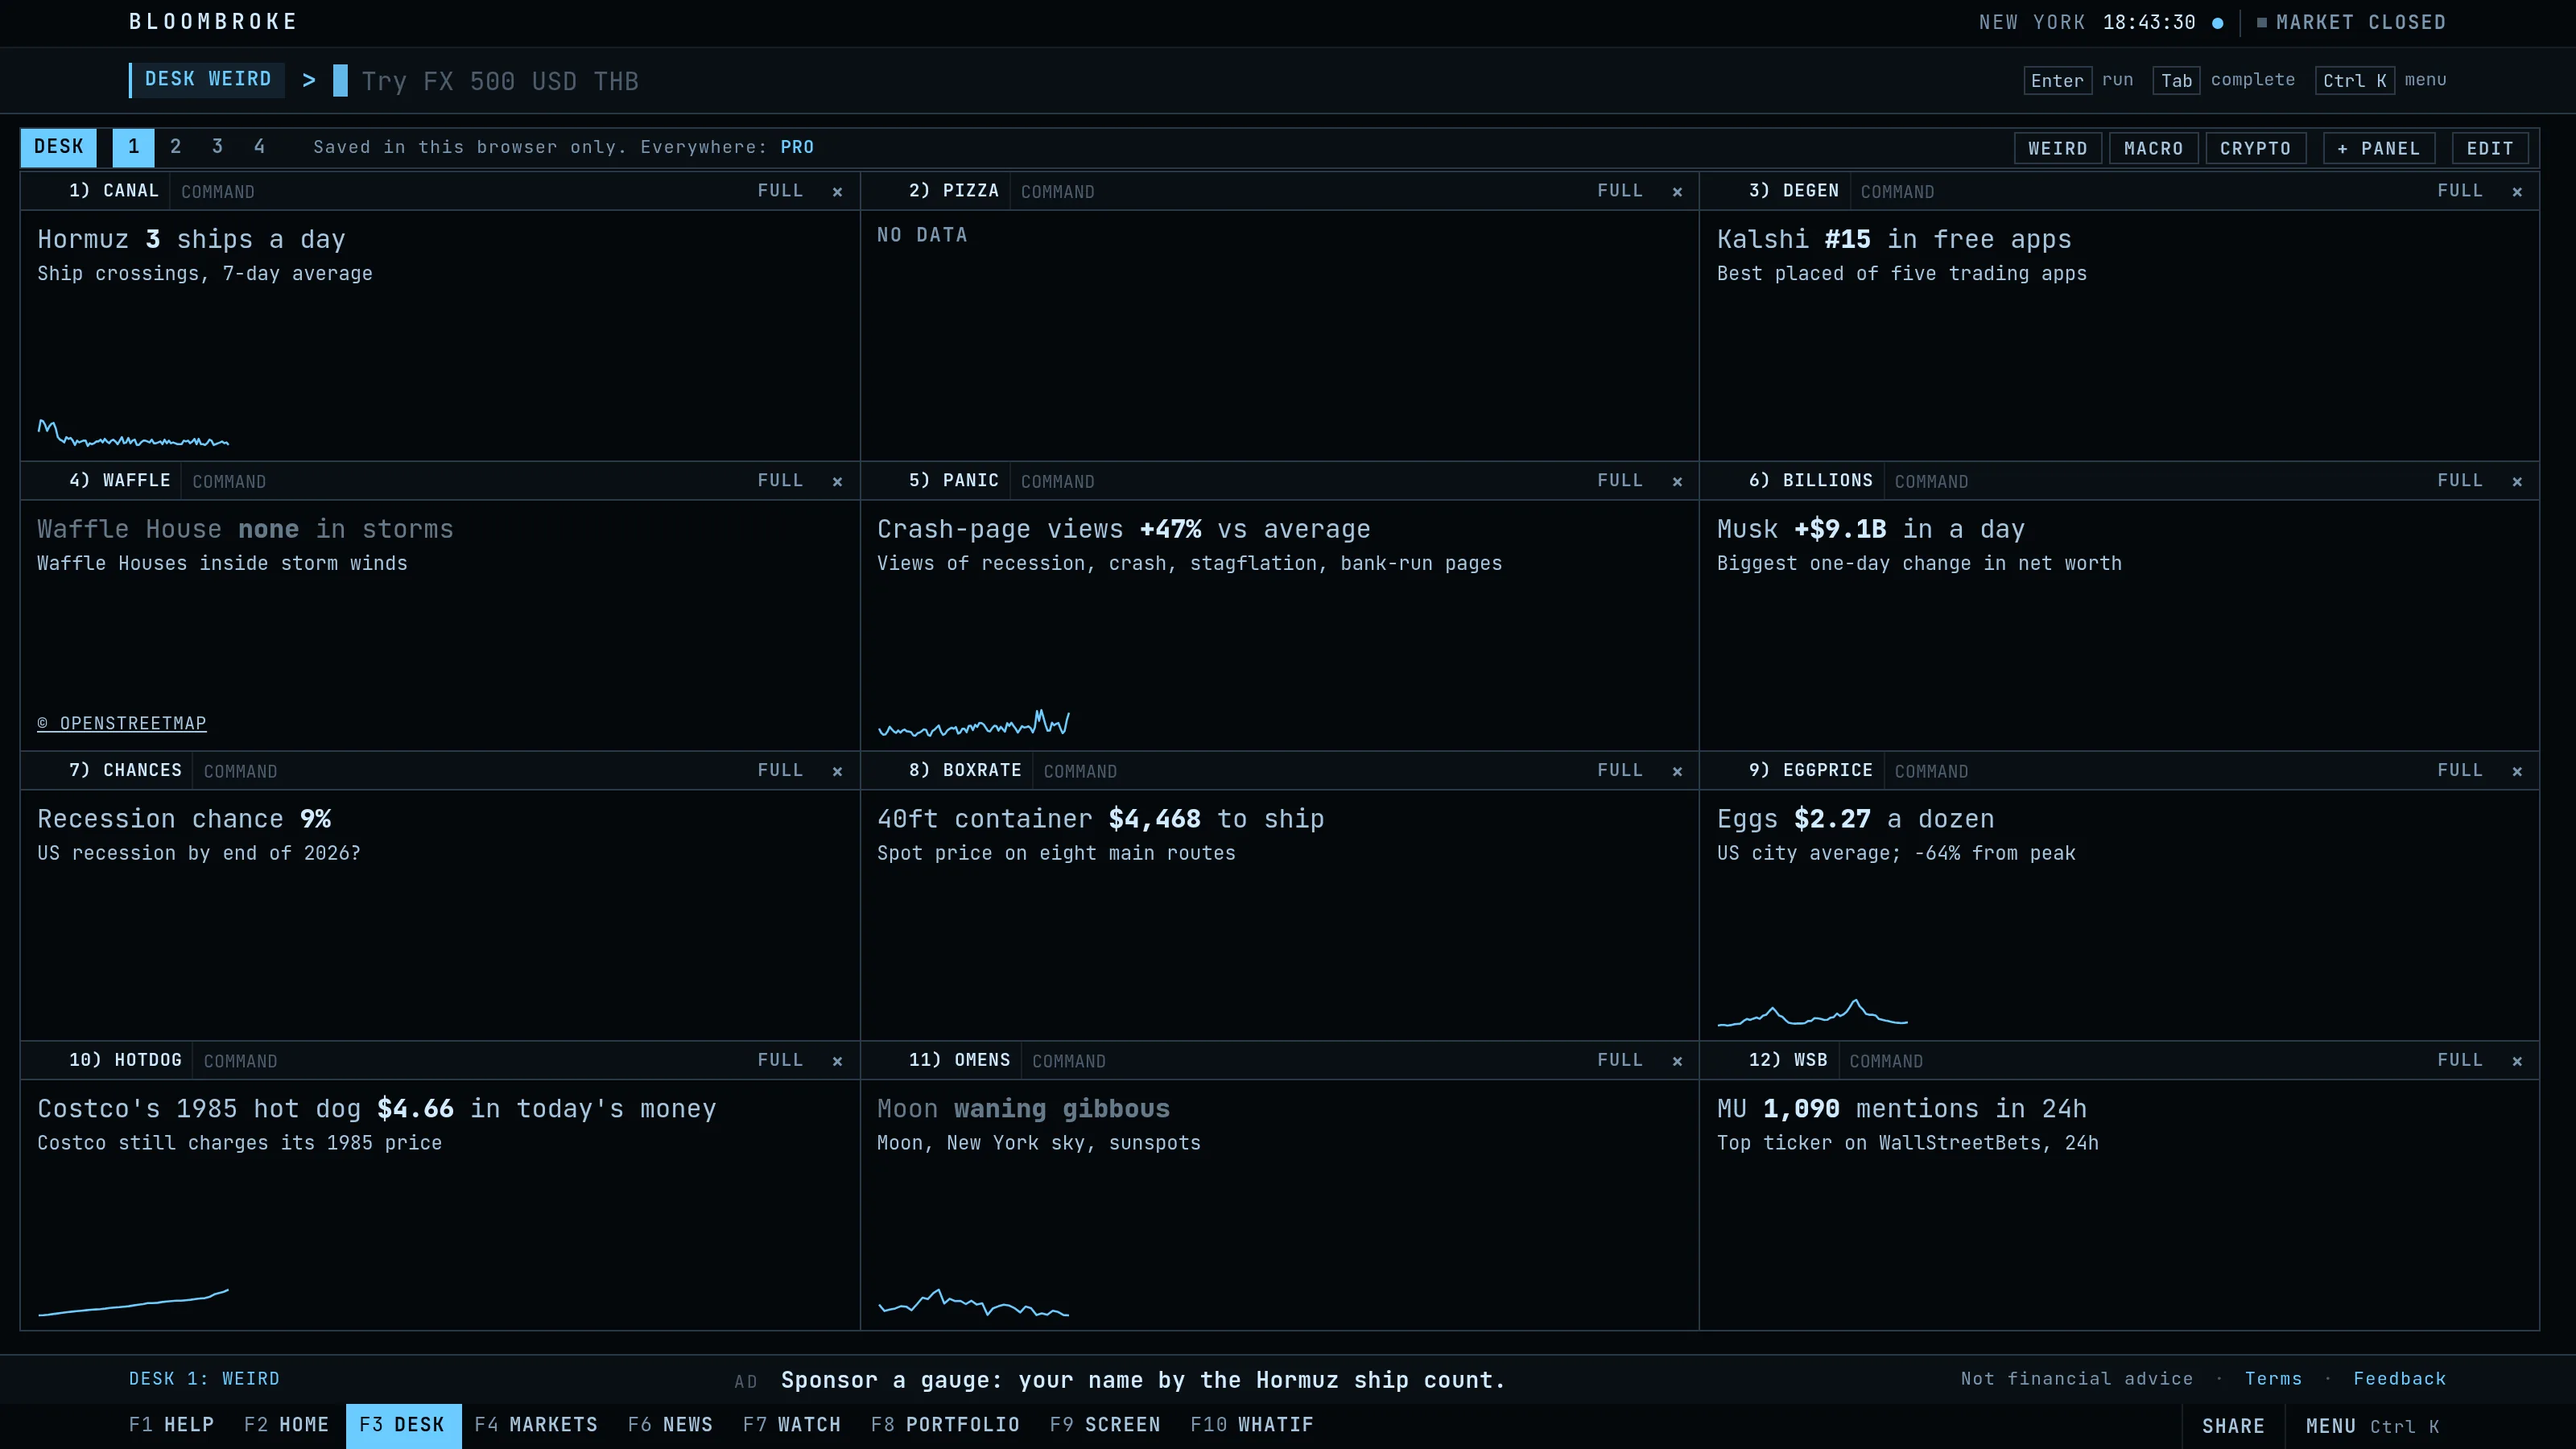
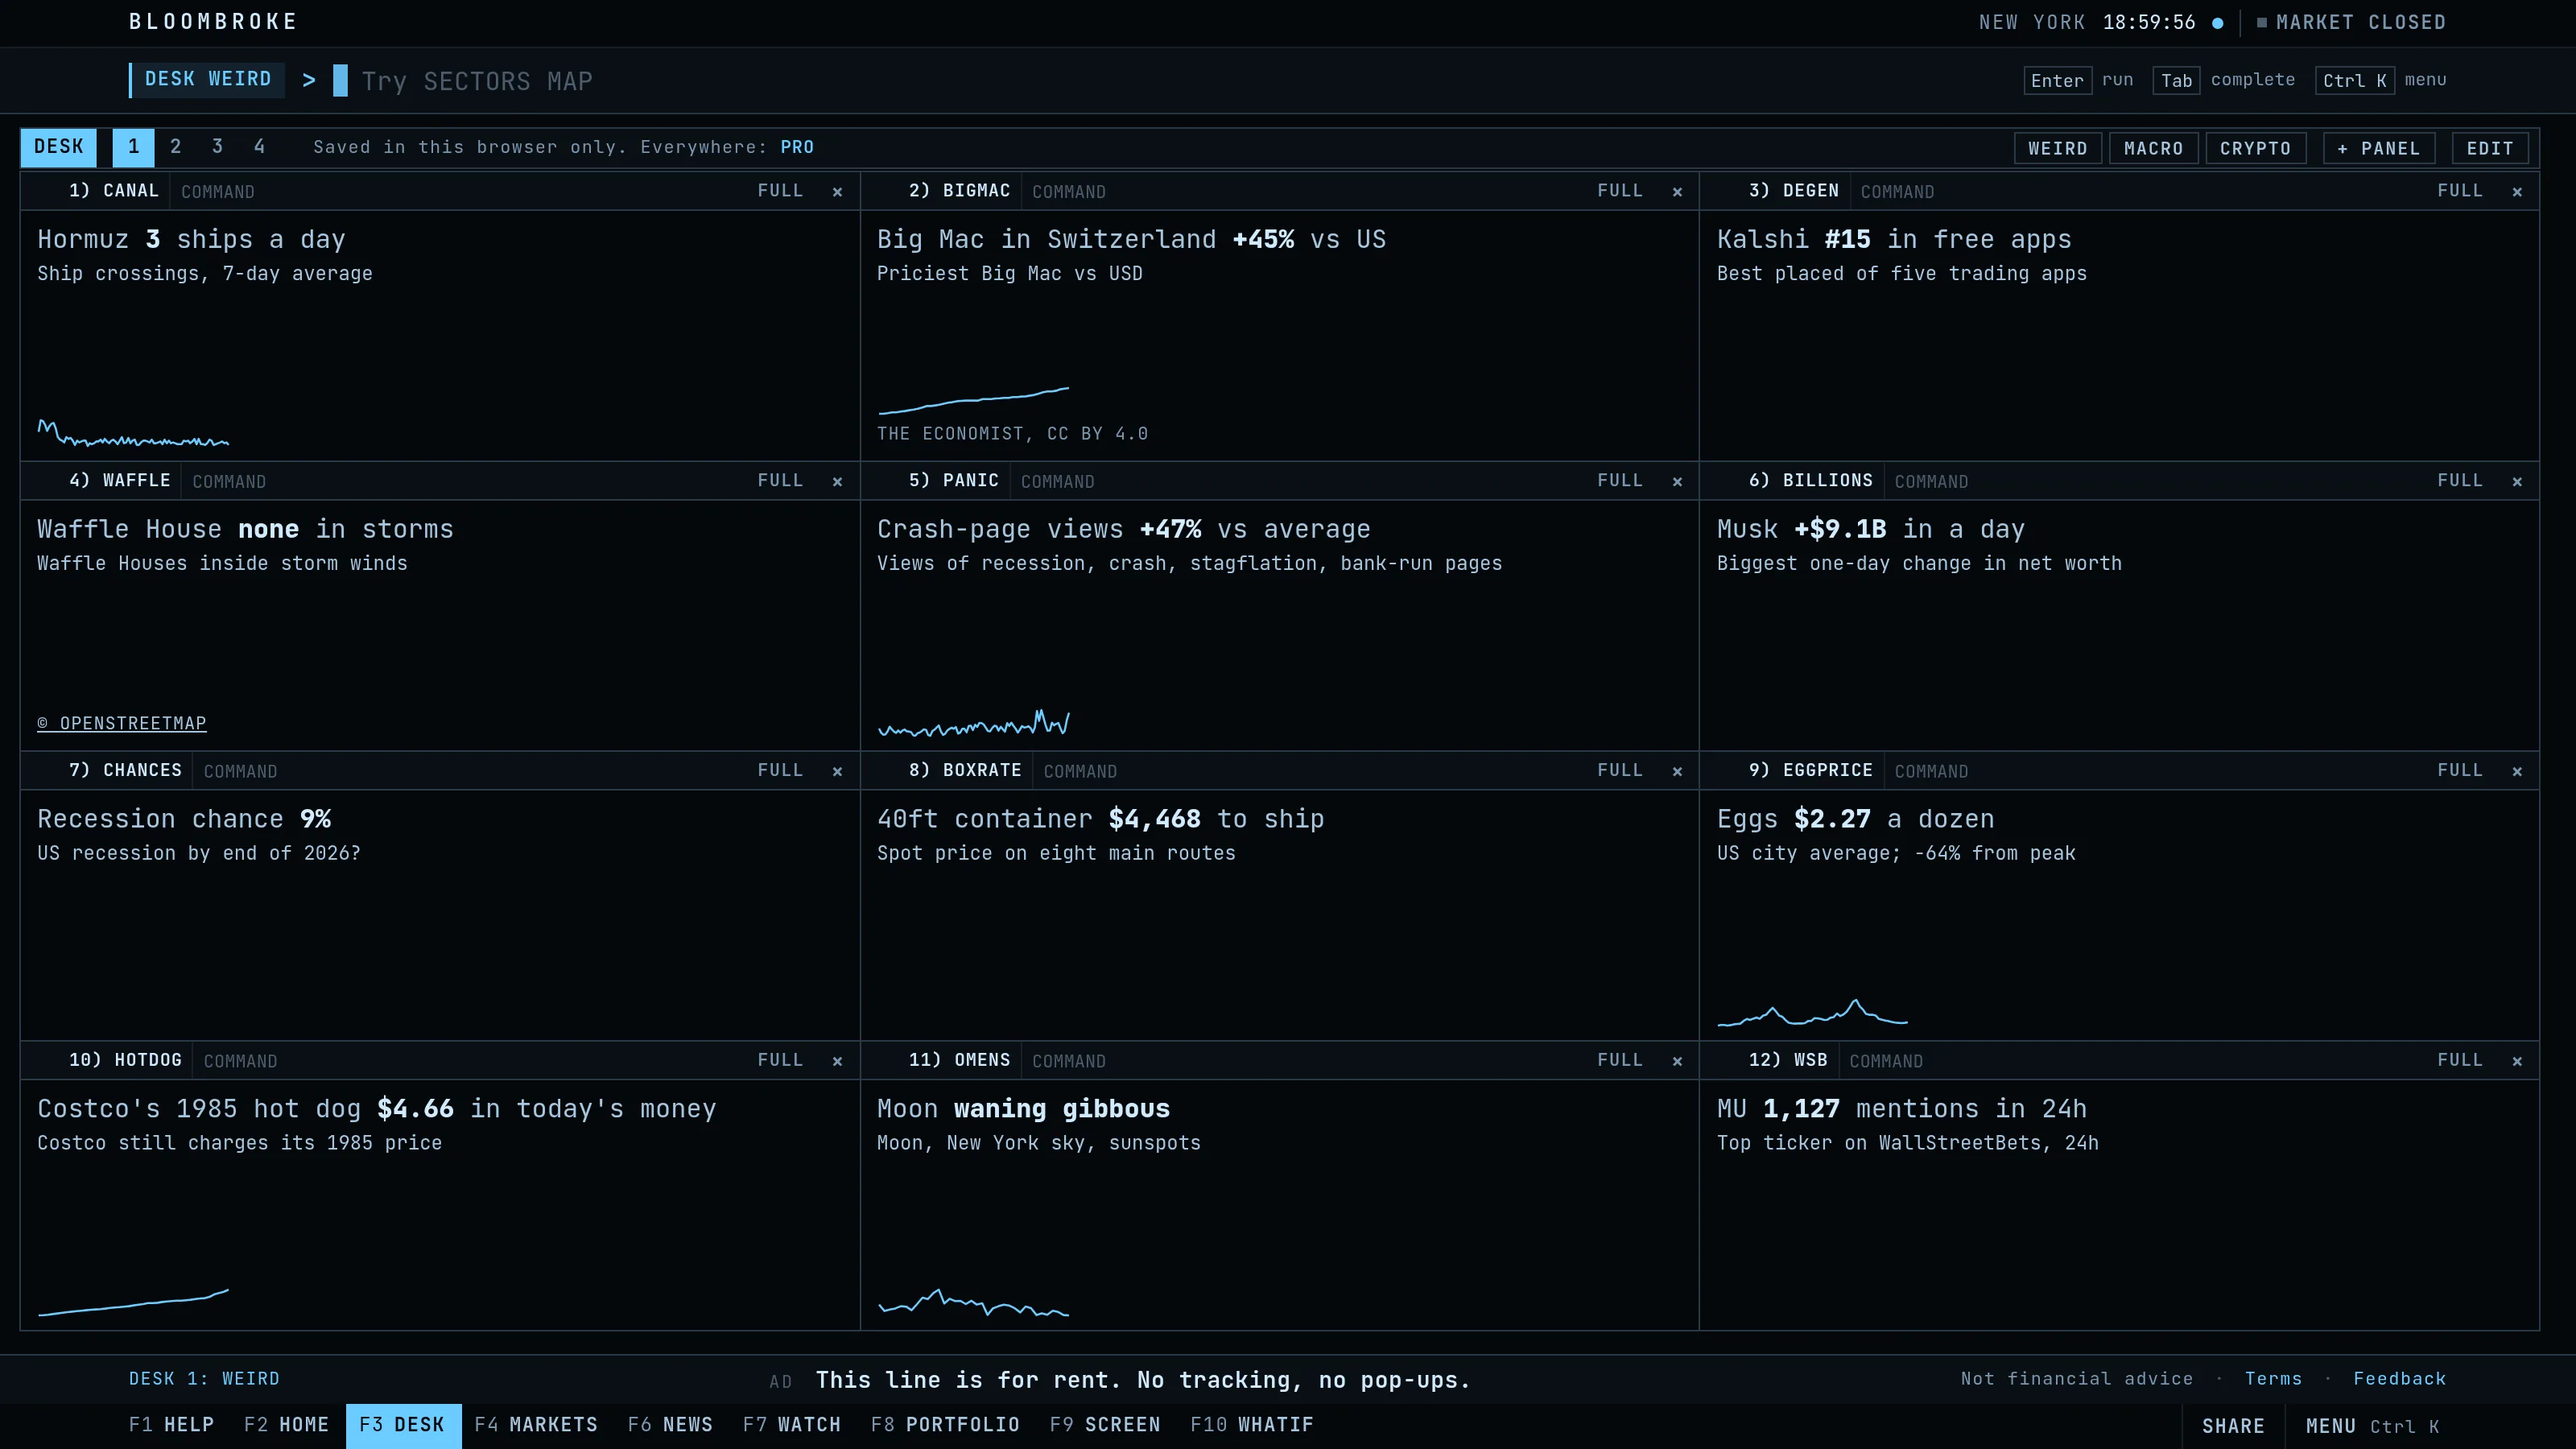
DESK WEIRD: BIGMAC in place of the empty pizza gauge; README shot retaken

diff --git a/test/desk-cards.test.js b/test/desk-cards.test.js
@@ -45,7 +45,7 @@ test('presets use only existing commands and gauges', () => {
     }
   }
   const cmds = (n) => PRESETS[n].map((p) => p.cmd);
-  assert.deepEqual(cmds('WEIRD'), ['CANAL', 'PIZZA', 'DEGEN', 'WAFFLE', 'PANIC', 'BILLIONS', 'CHANCES', 'BOXRATE', 'EGGPRICE', 'HOTDOG', 'OMENS', 'WSB']);
+  assert.deepEqual(cmds('WEIRD'), ['CANAL', 'BIGMAC', 'DEGEN', 'WAFFLE', 'PANIC', 'BILLIONS', 'CHANCES', 'BOXRATE', 'EGGPRICE', 'HOTDOG', 'OMENS', 'WSB']);
   assert.ok(PRESETS.WEIRD.every((p) => p.card));
   for (const c of ['SPX 1Y', 'CURVE', 'FXMATRIX', 'CPI', 'NEWS MACRO', 'CHANCES', 'BEIGE', 'TRUCKS']) assert.ok(cmds('MACRO').includes(c), `MACRO has ${c}`);
   for (const c of ['BTC 1D', 'ETH 1D', 'CRYPTO', 'DEGEN', 'WSB', 'NEWS']) assert.ok(cmds('CRYPTO').includes(c), `CRYPTO has ${c}`);

diff --git a/public/desk-layout.js b/public/desk-layout.js
@@ -39,7 +39,7 @@ const card = (cmd, x, y, w, h) => ({ cmd, x, y, w, h, card: true });
 const pane = (cmd, x, y, w, h, link = null) => ({ cmd, x, y, w, h, link });
 export const PRESETS = {
   WEIRD: [
-    card('CANAL', 0, 0, 4, 4), card('PIZZA', 4, 0, 4, 4), card('DEGEN', 8, 0, 4, 4),
+    card('CANAL', 0, 0, 4, 4), card('BIGMAC', 4, 0, 4, 4), card('DEGEN', 8, 0, 4, 4),
     card('WAFFLE', 0, 4, 4, 4), card('PANIC', 4, 4, 4, 4), card('BILLIONS', 8, 4, 4, 4),
     card('CHANCES', 0, 8, 4, 4), card('BOXRATE', 4, 8, 4, 4), card('EGGPRICE', 8, 8, 4, 4),
     card('HOTDOG', 0, 12, 4, 4), card('OMENS', 4, 12, 4, 4), card('WSB', 8, 12, 4, 4),
